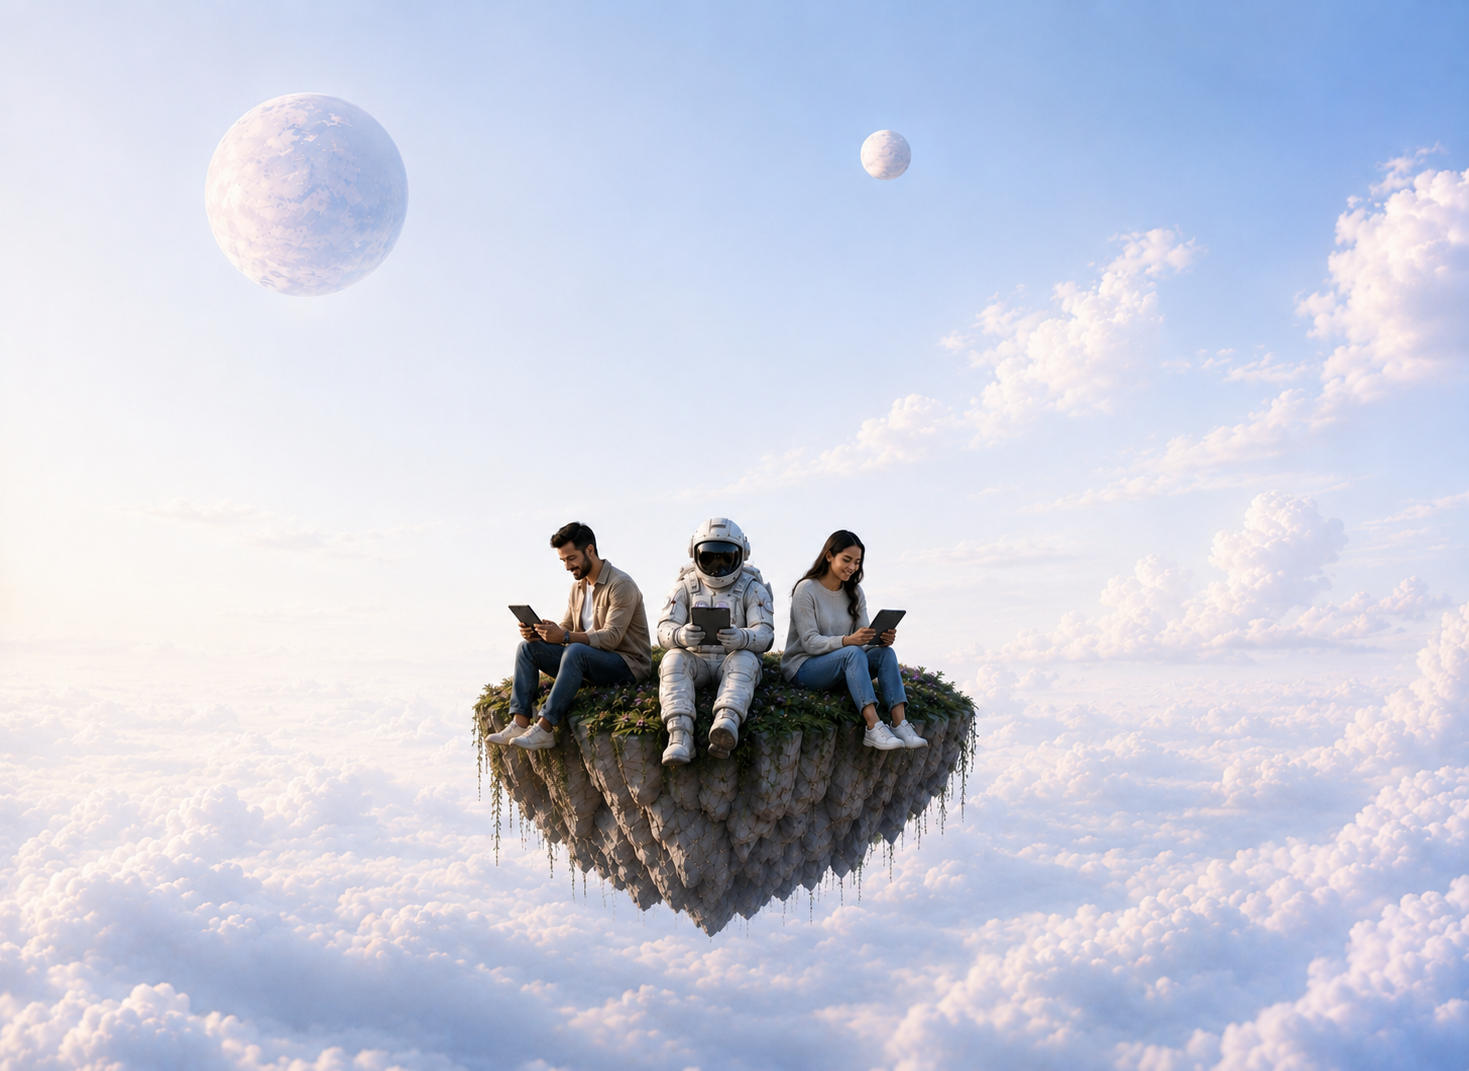
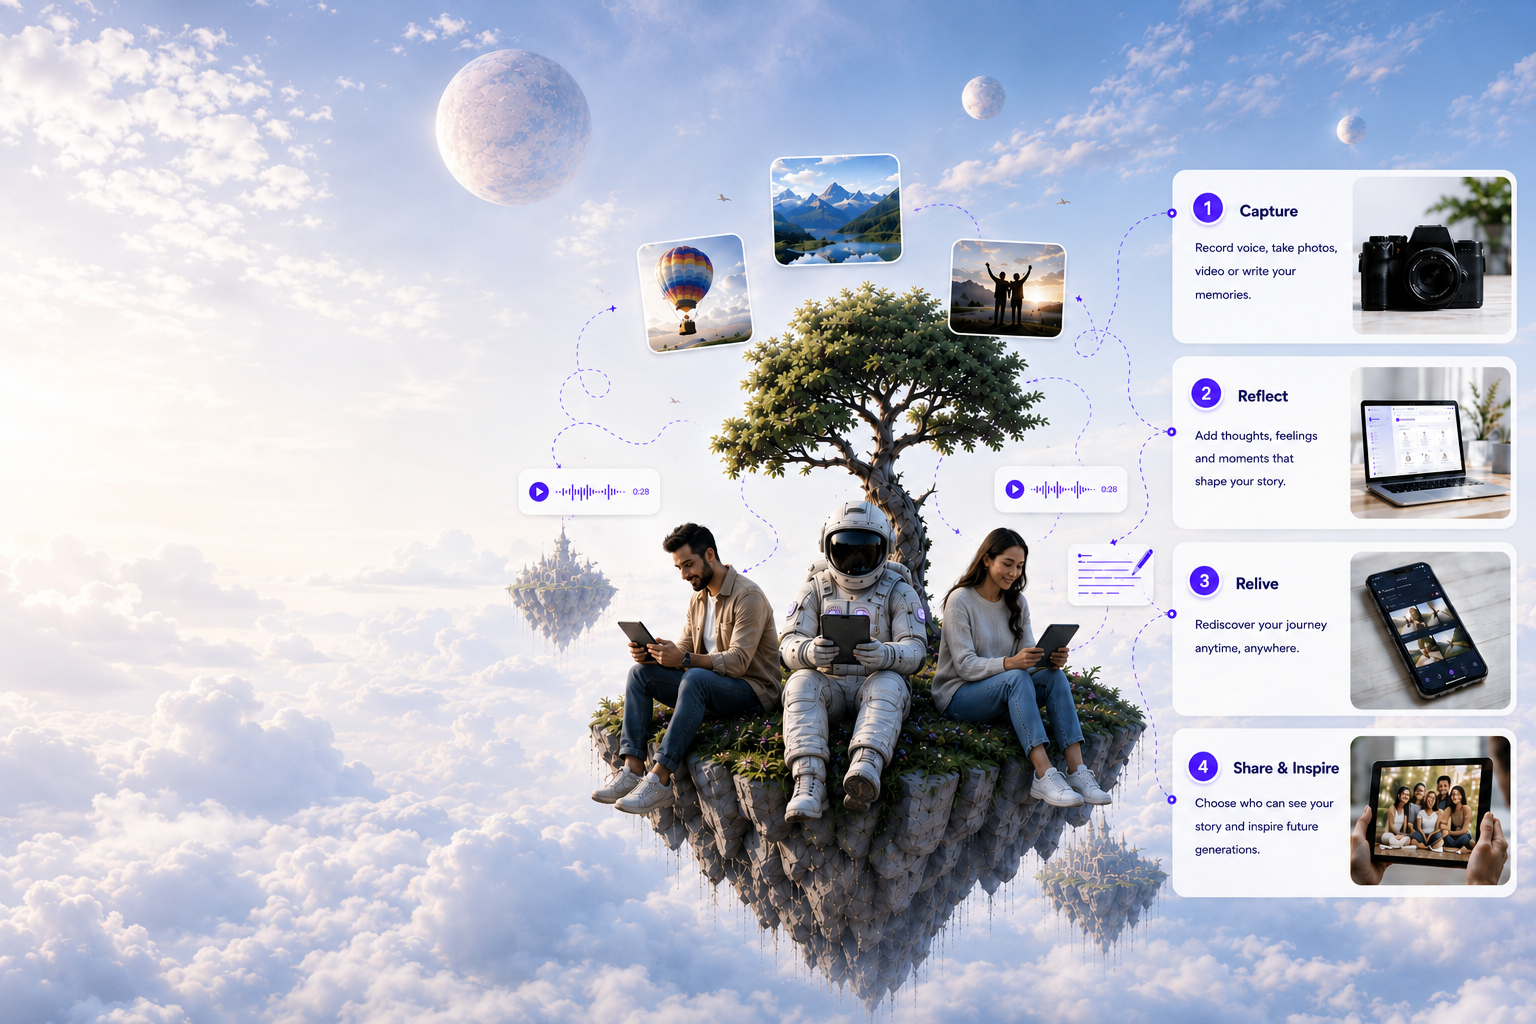
how it works , family page heros

diff --git a/src/components/landing/HowItWorksHeroSection.js b/src/components/landing/HowItWorksHeroSection.js
@@ -8,6 +8,7 @@ import {
   Heart,
   Lock,
   ArrowUpRight,
+  Play,
 } from "lucide-react";
 
 const ease = [0.22, 1, 0.36, 1];
@@ -54,31 +55,23 @@ export default function HowItWorksHeroSection({
   backgroundImage = "/howitworks.png",
 }) {
   return (
-    <section className="relative overflow-hidden min-h-screen bg-slate-50">
-      {/* Background Image */}
+    <section className="relative overflow-hidden min-h-screen">
+      {/* Background Image - Clean full opacity hero artwork */}
       <div className="absolute inset-0 z-0">
         <img
           src={backgroundImage}
           alt="How Spoken Odyssey works background"
           className="w-full h-full object-cover object-center"
         />
-        {/* Subtle transparent mask so text stays readable while artwork is clear */}
-        <div
-          className="absolute inset-0"
-          style={{
-            background:
-              "linear-gradient(105deg, rgba(255,255,255,0.90) 0%, rgba(255,255,255,0.70) 30%, rgba(255,255,255,0.20) 55%, transparent 75%)",
-          }}
-        />
       </div>
 
       {/* Main Content Container */}
-      <div className="relative z-10 max-w-7xl mx-auto px-6 md:px-12 py-20 md:py-28">
-        <div className="grid grid-cols-1 lg:grid-cols-12 gap-8 lg:gap-6 items-start">
+      <div className="relative z-10 max-w-[1360px] mx-auto px-6 md:px-12 py-20 lg:py-24">
+        <div className="max-w-xl">
           
           {/* ── LEFT COLUMN ── */}
           <motion.div
-            className="lg:col-span-6 space-y-6"
+            className="space-y-6"
             initial={{ opacity: 0, x: -40 }}
             animate={{ opacity: 1, x: 0 }}
             transition={{ duration: 0.8, ease }}
@@ -105,7 +98,7 @@ export default function HowItWorksHeroSection({
               animate={{ opacity: 1, y: 0 }}
               transition={{ duration: 0.7, delay: 0.2, ease }}
             >
-              <h1 className="text-4xl sm:text-5xl lg:text-6xl font-extrabold text-[#1a0a2e] leading-tight">
+              <h1 className="text-4xl sm:text-5xl lg:text-6xl font-extrabold text-[#1a0a2e] leading-[1.1]">
                 How <br />
                 <span style={{ color: "#4f37ff" }}>Spoken Odyssey</span> <br />
                 works.
@@ -191,13 +184,7 @@ export default function HowItWorksHeroSection({
               className="pt-2"
             >
               <div
-                className="inline-flex items-center gap-3.5 rounded-2xl px-4 py-3"
-                style={{
-                  background: "rgba(255, 255, 255, 0.95)",
-                  border: "1px solid rgba(79, 55, 255, 0.12)",
-                  boxShadow:
-                    "0 8px 20px -4px rgba(79, 55, 255, 0.10), 0 2px 6px rgba(0,0,0,0.03)",
-                }}
+                className="inline-flex items-center gap-3.5 rounded-2xl px-4 py-3 bg-white/95 border border-indigo-100 shadow-md backdrop-blur-sm"
               >
                 {/* Avatars */}
                 <div className="flex items-center -space-x-2.5">
@@ -223,52 +210,6 @@ export default function HowItWorksHeroSection({
               </div>
             </motion.div>
           </motion.div>
-
-          {/* ── RIGHT COLUMN (4 COMPACT STEP CARDS) ── */}
-          <motion.div
-            className="lg:col-span-6 space-y-3"
-            initial={{ opacity: 0, x: 40 }}
-            animate={{ opacity: 1, x: 0 }}
-            transition={{ duration: 0.8, delay: 0.2, ease }}
-          >
-            {STEPS.map((step, index) => (
-              <motion.div
-                key={step.num}
-                initial={{ opacity: 0, y: 16 }}
-                animate={{ opacity: 1, y: 0 }}
-                transition={{ duration: 0.5, delay: 0.3 + index * 0.08, ease }}
-                className="bg-white/95 rounded-2xl p-3.5 sm:px-4 sm:py-3 border border-slate-100 shadow-sm hover:shadow-md transition-all duration-200 flex items-center gap-4 justify-between"
-              >
-                {/* Text & badge info */}
-                <div className="flex items-center gap-3 flex-1 min-w-0">
-                  <div
-                    className="w-7 h-7 rounded-full flex items-center justify-center text-white font-extrabold text-xs flex-shrink-0 shadow-sm"
-                    style={{ background: "#4f37ff" }}
-                  >
-                    {step.num}
-                  </div>
-                  <div className="min-w-0">
-                    <h4 className="text-sm font-bold text-gray-900 leading-snug">
-                      {step.title}
-                    </h4>
-                    <p className="text-xs text-gray-500 leading-tight mt-0.5 truncate sm:whitespace-normal">
-                      {step.desc}
-                    </p>
-                  </div>
-                </div>
-
-                {/* Right Thumbnail Image */}
-                <div className="w-24 sm:w-28 h-16 rounded-lg overflow-hidden flex-shrink-0 bg-slate-100 shadow-inner">
-                  <img
-                    src={step.image}
-                    alt={step.alt}
-                    className="w-full h-full object-cover transition-transform duration-300 hover:scale-105"
-                  />
-                </div>
-              </motion.div>
-            ))}
-          </motion.div>
-
         </div>
 
         {/* ── BOTTOM SECURITY BANNER ── */}
@@ -276,29 +217,21 @@ export default function HowItWorksHeroSection({
           initial={{ opacity: 0, y: 30 }}
           animate={{ opacity: 1, y: 0 }}
           transition={{ duration: 0.7, delay: 0.7, ease }}
-          className="mt-16"
+          className="mt-20 lg:mt-28"
         >
           <div
-            className="max-w-5xl mx-auto flex flex-col sm:flex-row items-start sm:items-center justify-between gap-5 rounded-2xl p-5 sm:px-8 sm:py-6"
-            style={{
-              background: "rgba(255, 255, 255, 0.95)",
-              backdropFilter: "blur(20px)",
-              WebkitBackdropFilter: "blur(20px)",
-              border: "1px solid rgba(79, 55, 255, 0.15)",
-              boxShadow:
-                "0 12px 35px -10px rgba(79, 55, 255, 0.12), 0 2px 10px rgba(0,0,0,0.03)",
-            }}
+            className="max-w-5xl mx-auto flex flex-col sm:flex-row items-start sm:items-center justify-between gap-5 rounded-2xl p-5 sm:px-8 sm:py-5 bg-white/95 border border-indigo-100/90 shadow-md backdrop-blur-sm"
           >
             {/* Left Info */}
             <div className="flex items-center gap-4">
               <div
-                className="w-12 h-12 rounded-full flex items-center justify-center flex-shrink-0 shadow-sm"
+                className="w-11 h-11 rounded-full flex items-center justify-center flex-shrink-0 shadow-sm"
                 style={{
                   background: "rgba(79, 55, 255, 0.08)",
                   border: "1px solid rgba(79, 55, 255, 0.2)",
                 }}
               >
-                <Lock size={20} style={{ color: "#4f37ff" }} />
+                <Lock size={18} style={{ color: "#4f37ff" }} />
               </div>
               <div>
                 <h3 className="text-base sm:text-lg font-extrabold text-gray-900">
@@ -314,7 +247,7 @@ export default function HowItWorksHeroSection({
             <Link
               id="howitworks-see-all-features-btn"
               href="/discover"
-              className="inline-flex items-center gap-2 rounded-full border border-indigo-200 text-gray-900 bg-white hover:bg-slate-50 font-bold text-xs sm:text-sm px-6 py-3 transition-all duration-200 shadow-sm hover:scale-105 flex-shrink-0"
+              className="inline-flex items-center gap-2 rounded-full border border-indigo-200 text-gray-900 bg-white hover:bg-slate-50 font-bold text-xs sm:text-sm px-6 py-2.5 transition-all duration-200 shadow-sm hover:scale-105 flex-shrink-0"
             >
               See all features
               <ArrowUpRight size={14} style={{ color: "#4f37ff" }} />

diff --git a/src/components/landing/ForFamiliesHeroSection.js b/src/components/landing/ForFamiliesHeroSection.js
@@ -93,29 +93,29 @@ export default function ForFamiliesHeroSection({
   return (
     <div className="bg-[#fcfbfe] text-slate-900 font-sans selection:bg-[#4f37ff]/10">
       {/* ════════════════════════════════════════════════════════
-          HERO SECTION
+          HERO SECTION (EXACT 3:2 ASPECT RATIO - SHOWS FULL FAMILY.PNG FULLY)
       ════════════════════════════════════════════════════════ */}
-      <section className="relative overflow-hidden pt-24 sm:pt-28 lg:pt-32 pb-16 lg:pb-24 min-h-[85vh] lg:min-h-[92vh] flex items-center">
-        {/* Unblurred background image extending fully to the top of the viewport */}
+      <section className="relative overflow-hidden pt-12 sm:pt-16 lg:pt-20 pb-8 min-h-[480px] sm:min-h-[540px] lg:min-h-0 lg:aspect-[1535/1024] flex items-start">
+        {/* Full background image - 100% complete without top or bottom hiding */}
         <div className="absolute inset-0 z-0">
           <img
             src={backgroundImage}
             alt="For Families background"
-            className="w-full h-full object-cover object-top"
+            className="w-full h-full object-cover object-center"
           />
-          {/* Subtle minimal tint on left edge for crisp text readability without hiding/blurring sky */}
+          {/* Subtle minimal tint on left edge for crisp text readability without hiding sky */}
           <div
             className="absolute inset-0"
             style={{
               background:
-                "linear-gradient(90deg, rgba(255,255,255,0.4) 0%, rgba(255,255,255,0.15) 30%, transparent 60%)",
+                "linear-gradient(90deg, rgba(252,251,254,0.55) 0%, rgba(252,251,254,0.25) 35%, transparent 70%)",
             }}
           />
         </div>
 
         {/* Hero content container */}
-        <div className="relative z-10 max-w-7xl mx-auto px-5 sm:px-8 lg:px-12 w-full">
-          <div className="max-w-xl py-4">
+        <div className="relative z-10 max-w-7xl mx-auto px-5 sm:px-8 lg:px-12 w-full pt-2 sm:pt-4">
+          <div className="max-w-xl py-0 sm:py-2">
             <motion.div
               initial={{ opacity: 0, x: -30 }}
               animate={{ opacity: 1, x: 0 }}
@@ -202,9 +202,9 @@ export default function ForFamiliesHeroSection({
       </section>
 
       {/* ════════════════════════════════════════════════════════
-          2ND SECTION: 5 FEATURES STRIP (SINGLE HORIZONTAL ROW, NO OVERLAP)
+          2ND SECTION: 5 FEATURES STRIP (FITTED ON HERO DOWNSIDE)
       ════════════════════════════════════════════════════════ */}
-      <section className="px-4 sm:px-6 lg:px-12 max-w-7xl mx-auto relative z-20 -mt-6 sm:-mt-10 mb-16">
+      <section className="px-4 sm:px-6 lg:px-12 max-w-7xl mx-auto relative z-20 -mt-10 sm:-mt-14 lg:-mt-16 mb-4 sm:mb-6">
         <div className="bg-white rounded-2xl sm:rounded-3xl shadow-[0_12px_36px_rgba(0,0,0,0.04)] border border-purple-100/80 p-4 sm:p-5 lg:p-6">
           <div className="grid grid-cols-1 sm:grid-cols-2 md:grid-cols-3 lg:grid-cols-5 gap-4 lg:gap-3">
             {FEATURES.map(({ Icon, title, line1, line2 }, i) => (
@@ -237,11 +237,11 @@ export default function ForFamiliesHeroSection({
       </section>
 
       {/* ════════════════════════════════════════════════════════
-          3RD SECTION: WHAT FAMILIES ARE CREATING (5 CARDS WITH LOCAL ASSETS)
+          3RD SECTION: WHAT FAMILIES ARE CREATING (MINIMIZED TOP GAP)
       ════════════════════════════════════════════════════════ */}
-      <section className="py-8 sm:py-12 px-4 sm:px-6 lg:px-12 max-w-7xl mx-auto mb-16">
+      <section className="py-4 sm:py-6 px-4 sm:px-6 lg:px-12 max-w-7xl mx-auto mb-12">
         {/* Header */}
-        <div className="flex items-center justify-between mb-6 sm:mb-8">
+        <div className="flex items-center justify-between mb-4 sm:mb-6">
           <h2 className="text-xl sm:text-2xl font-extrabold text-[#1a0a2e]">
             What families are creating
           </h2>
